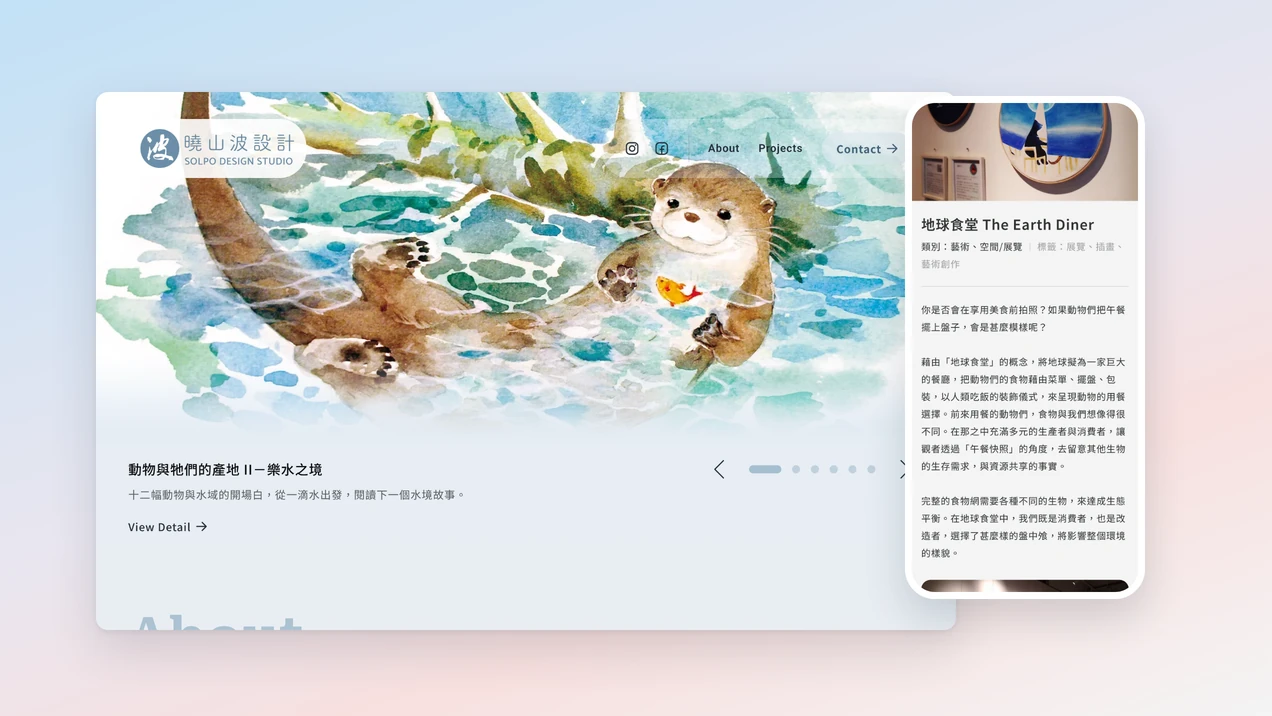
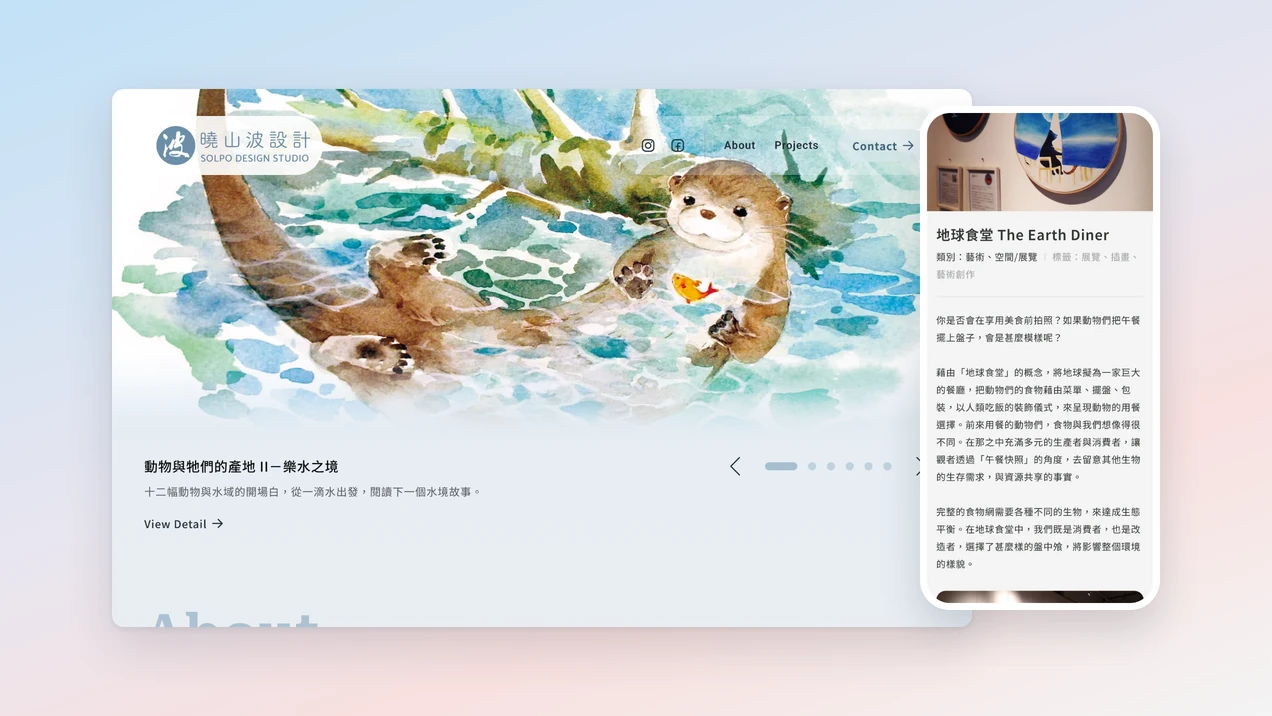
update: 曉山波專案封面改為置中構圖
Claude-Session: https://claude.ai/code/session_01GbAn8ux1p4m1Hv6HgsP3N8

Changed region(s): [[0.0613, 0.1229, 0.9198, 0.8603], [0.092, 0.8603, 0.7358, 0.8911], [0.092, 0.6453, 0.3679, 0.7374]]

diff --git a/project-solpoart.html b/project-solpoart.html
@@ -34,7 +34,7 @@
       曉山波設計官方網站
     </a>
     <div class="back-btn-spacer"></div>
-    <div class="proj-hero-wrap"><img class="proj-hero-img" src="assets/covers/Project=Solpoart_L.webp" alt="曉山波設計官方網站"></div>
+    <div class="proj-hero-wrap"><img class="proj-hero-img" src="assets/covers/Project=Solpoart_L.webp?v=2" alt="曉山波設計官方網站"></div>
     <h1 class="proj-detail-title reveal">曉山波設計官方網站</h1>
     <div class="proj-meta reveal"><div class="proj-meta-row"><span class="proj-meta-label">時間</span><span class="proj-meta-value">2026年</span></div><div class="proj-meta-row"><span class="proj-meta-label">產業</span><span class="proj-meta-value">設計工作室／品牌設計</span></div><div class="proj-meta-row"><span class="proj-meta-label">類別</span><span class="proj-meta-value">品牌網站設計、介面設計、動態設計</span></div><div class="proj-meta-row"><span class="proj-meta-label">角色</span><span class="proj-meta-value">設計師，前端與 Claude AI 協作開發</span></div><div class="proj-meta-row"><span class="proj-meta-label">網站</span><span class="proj-meta-value"><a class="proj-meta-link" href="https://www.solpoart.com/" target="_blank" rel="noopener">solpoart.com</a></span></div></div>
     <p class="proj-detail-desc reveal">為以插畫與資訊設計為主的曉山波設計規劃品牌官網，讓合作單位能在同一處完整瀏覽展覽、出版與品牌作品。負責整體視覺與介面設計，建立色彩、字體與元件規範；主導前端規劃，並與 Claude AI 協作完成開發。介面以大量留白退居幕後，搭配隨捲動漸變的背景色與水彩暈染的進場動態，讓畫作成為主角，桌機與手機皆能流暢瀏覽。</p>

diff --git a/projects.html b/projects.html
@@ -60,7 +60,7 @@
 
       <!-- Solpoart -->
       <a href="project-solpoart.html" class="proj-card-m reveal">
-        <img class="proj-m-img" src="assets/covers/Project=Solpoart_M.webp" alt="曉山波設計官方網站">
+        <img class="proj-m-img" src="assets/covers/Project=Solpoart_M.webp?v=2" alt="曉山波設計官方網站">
         <div class="proj-m-body">
           <div class="proj-m-tags">
             <span class="proj-tag">品牌網站設計</span>
